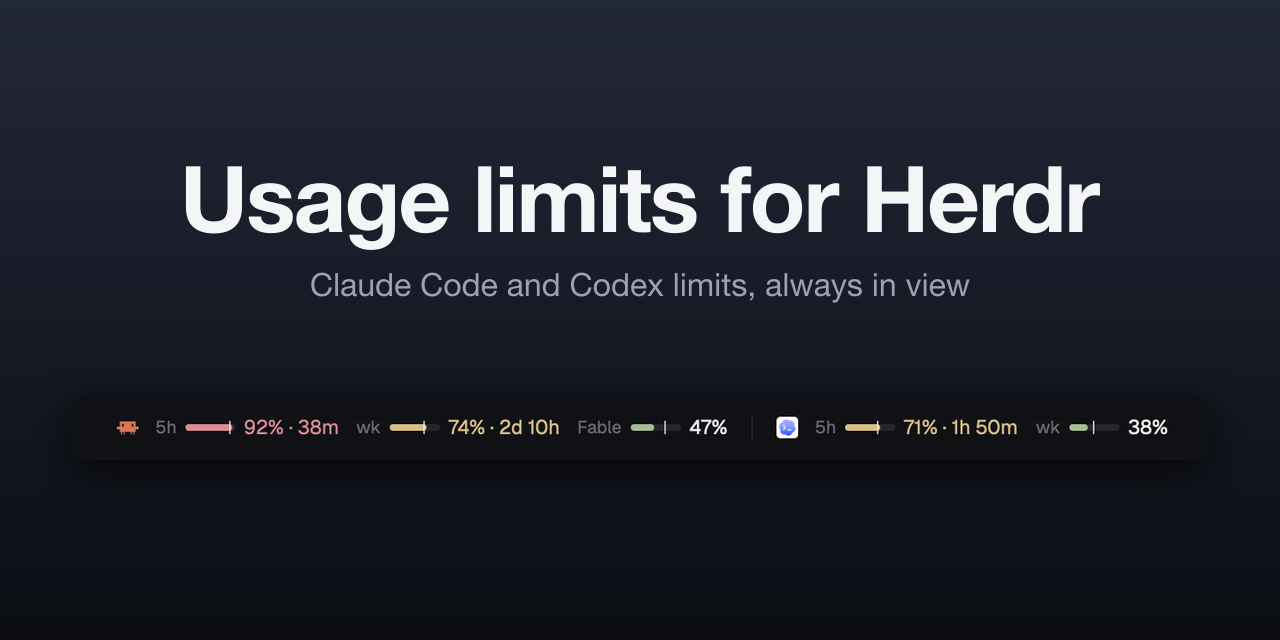
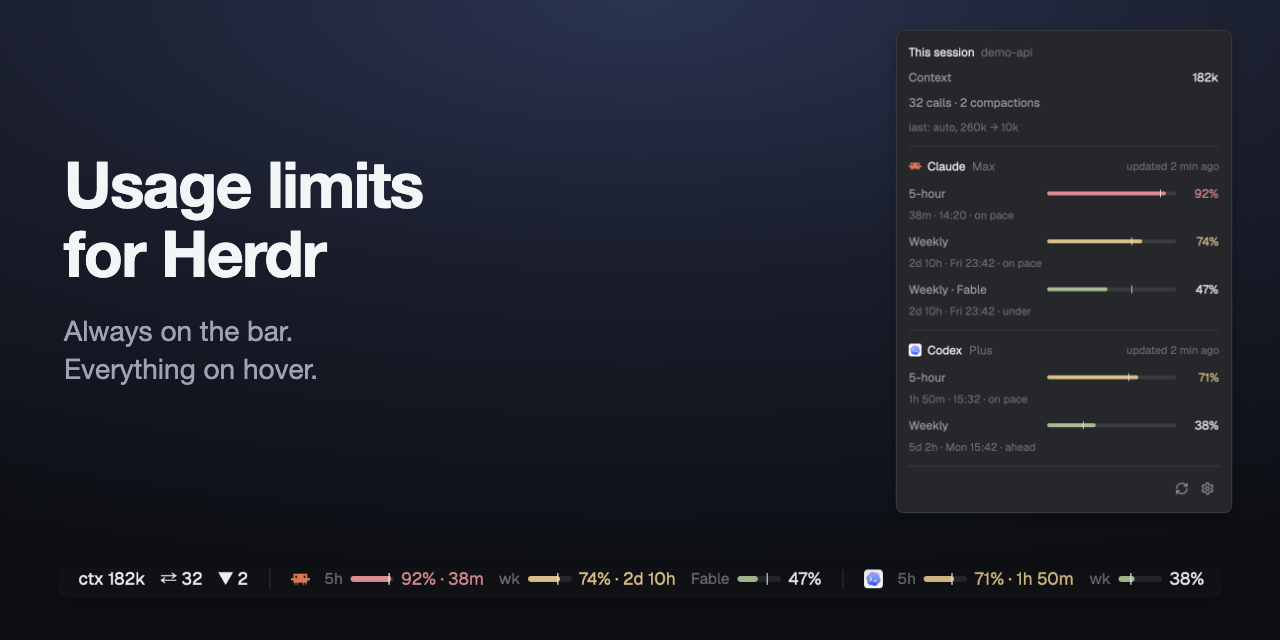
docs: new main image showing the bar and the hover panel
Replace the mostly empty terminal shot in the README, the catalogue
preview and the social image with the bar and the open panel.

Claude-Session: https://claude.ai/code/session_01RxGX2diawmGKELtVSzaZVm

diff --git a/README.md b/README.md
@@ -1,5 +1,5 @@
 <p align="center">
-  <img src="assets/hero.png" width="100%" alt="The Herdr window with Claude Code and Codex limits in its status bar, magnified below it: 5-hour at 92%, weekly at 74%, Fable at 47%">
+  <img src="assets/hero.png" width="100%" alt="Always on the bar, everything on hover: the status bar with session numbers and Claude Code and Codex limits, and above it the hover panel with every limit in full">
 </p>
 
 <h1 align="center">Usage limits for Herdr</h1>
